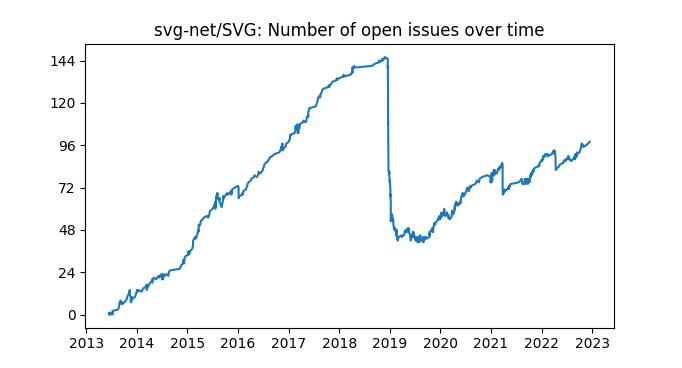
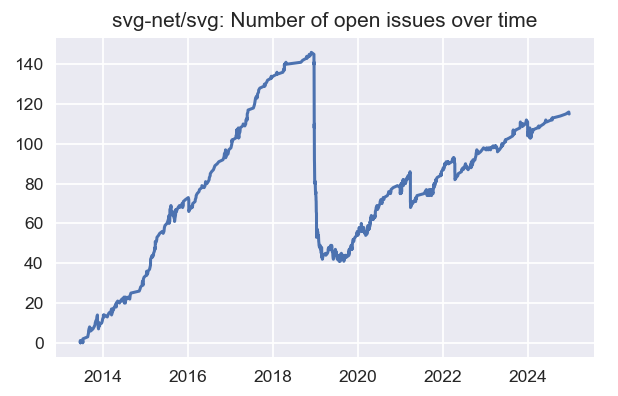
Slightly improve plots
- use styling to show grid
- improve scaling of y-axis

diff --git a/ghrepo_stats/show_gh_stats.py b/ghrepo_stats/show_gh_stats.py
@@ -4,6 +4,7 @@ import configparser
 import csv
 import enum
 import json
+import math
 import os
 from collections import namedtuple
 from datetime import datetime, timedelta, UTC
@@ -324,9 +325,15 @@ class GitHubStats:
         return True
 
     def show_plot(self, issue_nrs, issue_times, title):
+        pyplot.style.use("seaborn-v0_8")
         pyplot.plot(issue_times, issue_nrs)
         max_y = max(issue_nrs) + 1
         step = max(1, max_y // 6)
+        order = int(math.log10(step))
+        tens = 10 ** order
+        base = step // tens
+        base = 10 * base if base > 7 else 5 if base > 3 else 2 if base > 2 else base
+        step = base * tens
         pyplot.yticks(range(0, max_y, step))
         pyplot.title(f"{self.repo_name}: {title}")
         pyplot.show()

diff --git a/README.md b/README.md
@@ -139,7 +139,7 @@ $ show-ghstats issue-life "pytest-dev/pyfakefs"
 Get some measure of activity by checking how the code size changed over time 
 (measured in code additions/deletions):
 ```commandline
-$ show-ghstats codesize "pytest-dev/pytest"
+$ show-ghstats codesize "pytest-dev/pyfakefs"
 ```
 ![codesize](https://github.com/mrbean-bremen/ghrepo-stats/raw/main/doc/images/codesize.png)
 

diff --git a/CHANGES.md b/CHANGES.md
@@ -2,8 +2,12 @@
 
 ## Unreleased
 
+### Changes
+* use some styling in the plot
+
 ### Fixes
-* ignore old cache after results from API have changed (let to exception) 
+* ignore old cache after results from API have changed (let to exception)
+* show more convenient numbers at y-axis in plot 
 
 ### Infrastructure
 * remove tests for older Python versions, add Python 3.12 and 3.13 to CI
